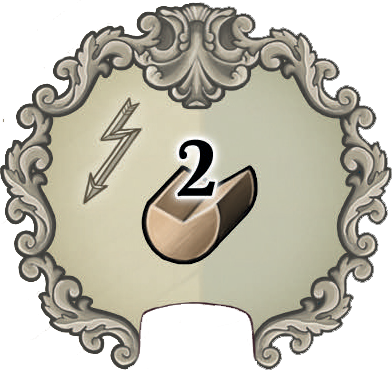
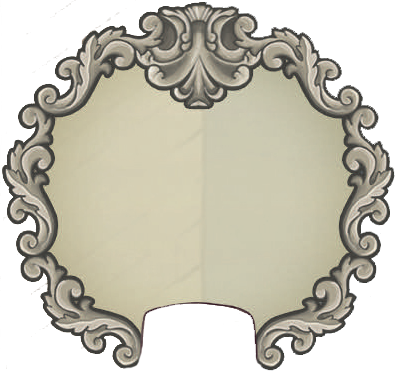
Floor occupiable GUI completed

diff --git a/src/main/java/it/polimi/ingsw/gc12/view/client/gui/representation/CardFloorRepresentation.java b/src/main/java/it/polimi/ingsw/gc12/view/client/gui/representation/CardFloorRepresentation.java
@@ -5,26 +5,24 @@ import javafx.beans.property.SimpleBooleanProperty;
 import javafx.beans.property.SimpleIntegerProperty;
 import javafx.beans.property.SimpleObjectProperty;
 import javafx.scene.image.Image;
-import javafx.scene.paint.Color;
-import javafx.scene.paint.ImagePattern;
-import javafx.scene.paint.Paint;
 
 
 public class CardFloorRepresentation  {
 
     private SimpleIntegerProperty floorNumber;
-    private SimpleObjectProperty<Image> path;
-    private SimpleObjectProperty<Image> pathWhenTaken;
+    private SimpleObjectProperty<Image> pathCard;
+    private SimpleObjectProperty<Image> pathFloor;
 
 
     private SimpleBooleanProperty taken;
 
-    public CardFloorRepresentation(String url ,int floor, Boolean taken) {
+    public CardFloorRepresentation(String urlCard ,String urlFloor, int floor, Boolean taken) {
         this.floorNumber = new SimpleIntegerProperty(floor);
-        Image image = new Image(url);
-        this.path = new SimpleObjectProperty<Image>(image);
+        Image imageCard = new Image(urlCard);
+        this.pathCard = new SimpleObjectProperty<Image>(imageCard);
         this.taken = new SimpleBooleanProperty(taken);
-        this.pathWhenTaken = new SimpleObjectProperty<Image>();
+        Image imageFloor = new Image(urlFloor);
+        this.pathFloor = new SimpleObjectProperty<Image>(imageFloor);
     }
 
     public int getFloorNumber() {
@@ -32,22 +30,22 @@ public class CardFloorRepresentation  {
     }
 
     public ObjectProperty<Image> getPathProperty() {
-        return path;
+        return pathCard;
     }
 
-    public void setPath(Image path) {
-        this.path.set(path);
+    public void setPathCard(Image pathCard) {
+        this.pathCard.set(pathCard);
     }
 
-    public Image getPathWhenTaken() {
-        return pathWhenTaken.get();
+    public Image getPathFloor() {
+        return pathFloor.get();
     }
 
-    public ObjectProperty<Image> pathWhenTakenProperty() {
-        return pathWhenTaken;
+    public SimpleObjectProperty<Image> getPathFloorProperty() {
+        return pathFloor;
     }
 
-    public void setPathWhenTaken(Image pathWhenTaken) {
-        this.pathWhenTaken.set(pathWhenTaken);
+    public void setPathFloor(Image pathFloor) {
+        this.pathFloor.set(pathFloor);
     }
 }

diff --git a/src/main/java/it/polimi/ingsw/gc12/model/match/MatchInstanceGUI.java b/src/main/java/it/polimi/ingsw/gc12/model/match/MatchInstanceGUI.java
@@ -129,7 +129,7 @@ public class MatchInstanceGUI extends MatchInstance {
                 int floor = towerFloor.getFloorNum();
                 String path = "img/Card/card_"+cardId+".png";//setting trasparent card because the cards arrive with eventStarTurn
                 Image image = new Image(path);
-                mapTypeCardFloorRepresentation.get(cardType).get(floor).setPath(image);
+                mapTypeCardFloorRepresentation.get(cardType).get(floor).setPathCard(image);
             }
         }
     }
@@ -182,6 +182,7 @@ public class MatchInstanceGUI extends MatchInstance {
 		mapTypeCardFloorRepresentation.put(CardType.BUILDING, cardFloorBuildingRepresentation);
 		mapTypeCardFloorRepresentation.put(CardType.CHARACTER, cardFloorCharactherRepresentation);
 		mapTypeCardFloorRepresentation.put(CardType.VENTURE, cardFloorVentureRepresentation);
+		int realFloor = 0;
 		for(CardType cardType : CardType.values()){
 			List<TowerFloor> towerFloors = match.getBoard().getTowerSet().getTower(cardType).getFloors();
 			for (TowerFloor towerFloor : towerFloors){
@@ -191,9 +192,11 @@ public class MatchInstanceGUI extends MatchInstance {
                 if(occupiers == null){
                     taken = false;
                 }
-				String path = "img/Card/transparentCard.png";//setting trasparent card because the cards arrive with eventStarTurn
-				CardFloorRepresentation cardFloorRepresentation = new CardFloorRepresentation(path, floor, taken);
+				String pathCard = "img/Card/transparentCard.png";//setting trasparent card because the cards arrive with eventStarTurn
+                String pathFloor = "img/Floor/floor"+realFloor+".png";
+				CardFloorRepresentation cardFloorRepresentation = new CardFloorRepresentation(pathCard,pathFloor, floor, taken);
 				mapTypeCardFloorRepresentation.get(cardType).add(cardFloorRepresentation);
+				realFloor= realFloor+1;
 			}
 		}
 	}

diff --git a/src/main/java/it/polimi/ingsw/gc12/view/client/gui/MainBoardController.java b/src/main/java/it/polimi/ingsw/gc12/view/client/gui/MainBoardController.java
@@ -615,7 +615,7 @@ public class MainBoardController extends Observable implements Initializable, Ob
             for(CardFloorRepresentation cardFloorRepresentation : cardFloorRepresentations){
                 int floor = cardFloorRepresentation.getFloorNumber();
                 cardFloors.get(cardType).get(floor).imageProperty().bind(match.getMapTypeCardFloorRepresentation().get(cardType).get(floor).getPathProperty());
-                towerFloors.get(cardType).get(floor).imageProperty().bind(match.getMapTypeCardFloorRepresentation().get(cardType).get(floor).pathWhenTakenProperty());
+                towerFloors.get(cardType).get(floor).imageProperty().bind(match.getMapTypeCardFloorRepresentation().get(cardType).get(floor).getPathFloorProperty());
             }
         }
     }
